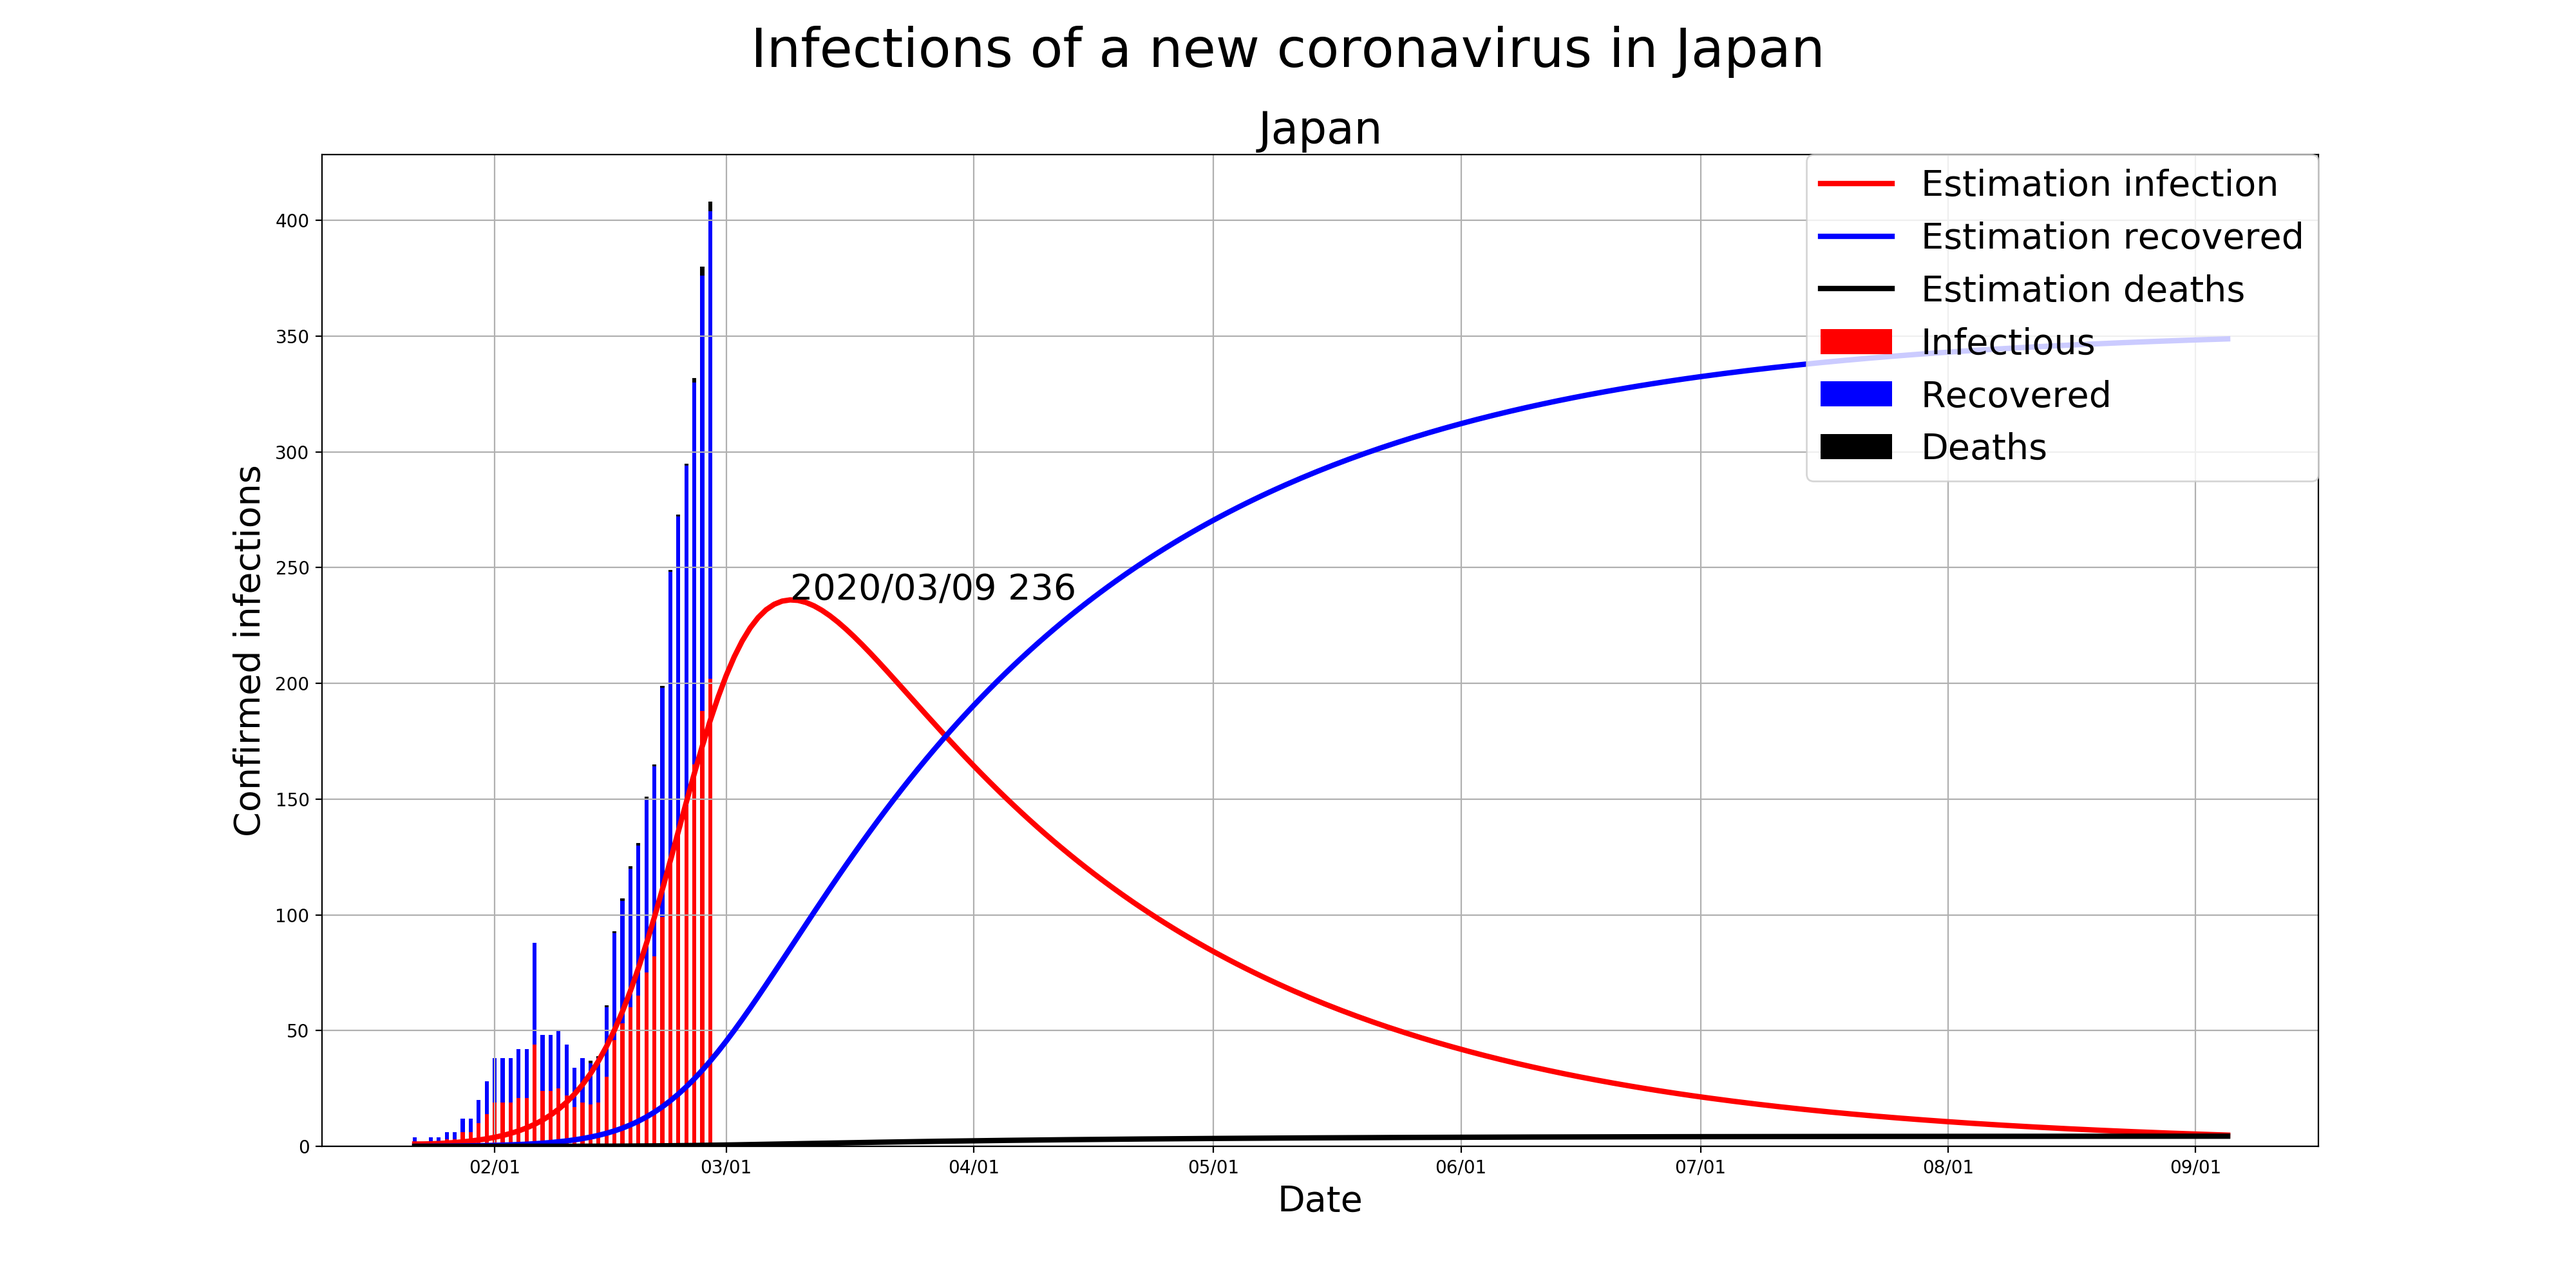
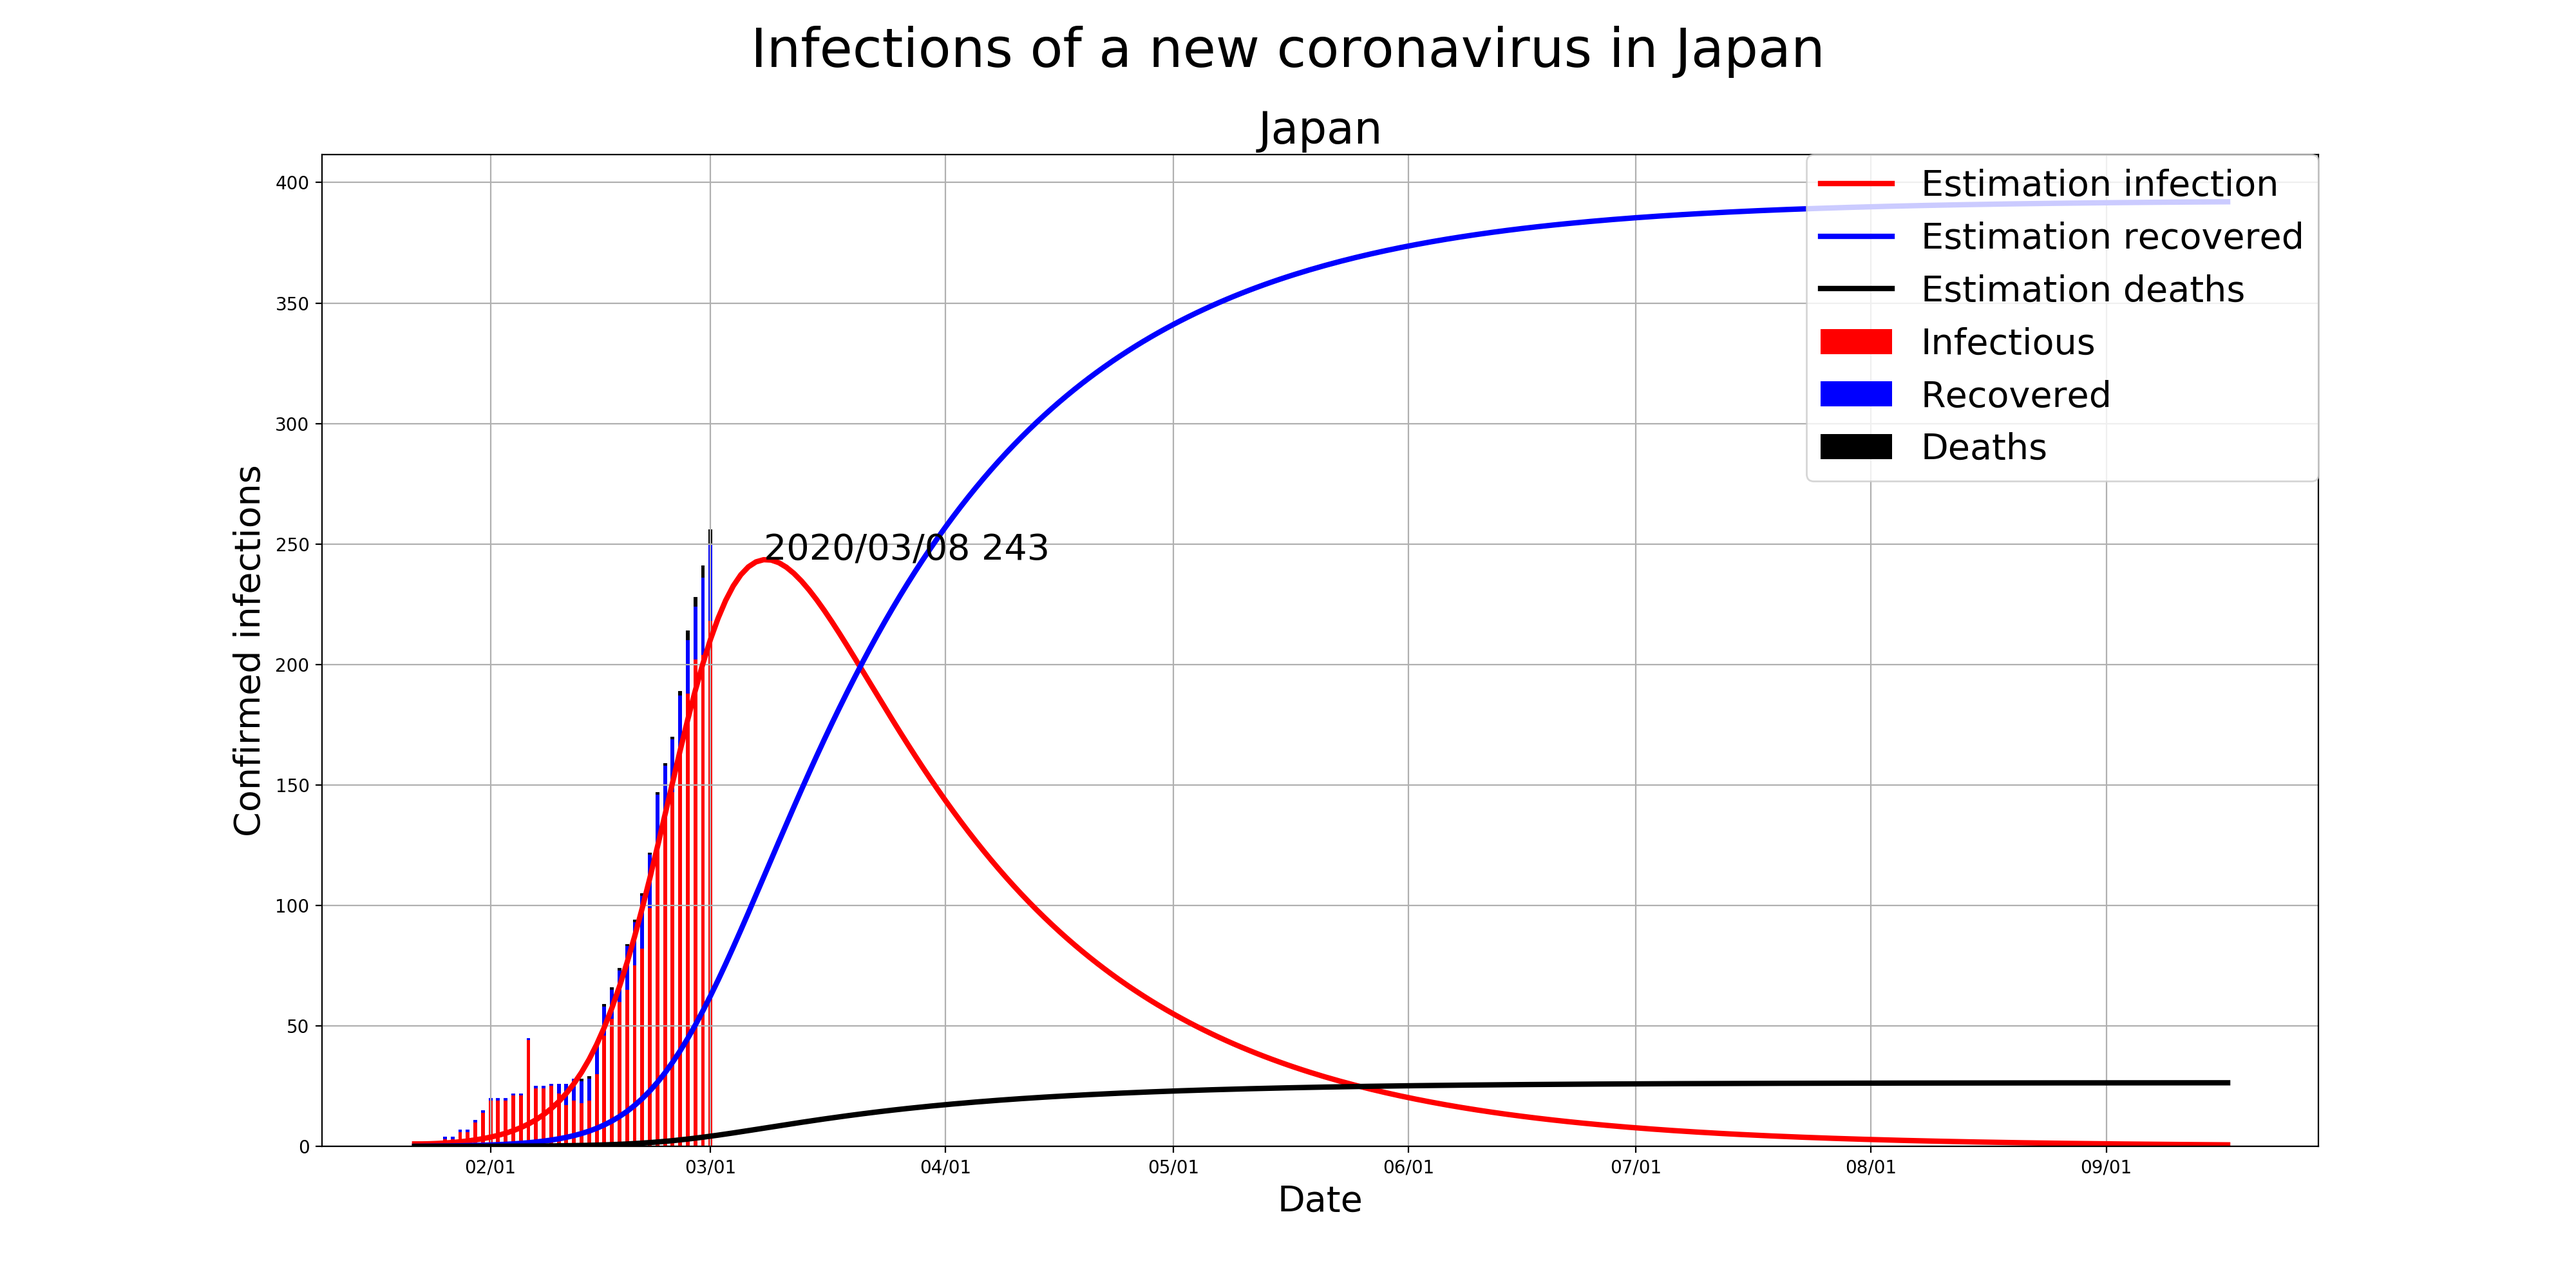
Fix the calc for recovery rate and mortality_rate

diff --git a/estimate_new_coronavirus_infection.py b/estimate_new_coronavirus_infection.py
@@ -24,7 +24,17 @@ class EstimationInfectedPeople():
         self.recovered = []
         self.confirmed = []
         self.values = []
+        #self.deaths_confirmed = []
+        #self.recovered_confirmed = []
+        #self.delta_deaths = []
+        #self.delta_recovered = []
 
+        self.delta_deaths_divided_by_infected = []
+        self.delta_recovered_divided_by_infected = []
+
+        pre_deaths = 0
+        pre_recovered = 0
+        pre_infected = 0
         for date, values in data.items():
             self.timestamp.append(dt.strptime(date, '%m/%d/%Y'))
 
@@ -36,14 +46,86 @@ class EstimationInfectedPeople():
             self.confirmed.append(confirmed)
             self.infected.append(infected)
             self.deaths.append(deaths)
-            self.recovered.append(infected)
+            self.recovered.append(recovered)
+
+            #self.deaths_confirmed.append(deaths/confirmed)
+            #self.recovered_confirmed.append(recovered/confirmed)
+
+            #self.delta_deaths.append(deaths - pre_deaths)
+            #self.delta_recovered.append(recovered - pre_recovered)
+
+
+            if pre_infected != 0:
+                self.delta_deaths_divided_by_infected.append((deaths - pre_deaths)/pre_infected)
+                self.delta_recovered_divided_by_infected.append((recovered - pre_recovered)/pre_infected)
+            else:
+                self.delta_deaths_divided_by_infected.append(0)
+                self.delta_recovered_divided_by_infected.append(0)
+
+
+
+            pre_deaths = deaths
+            pre_recovered = recovered
+            pre_infected = infected
 
         self.max = len(self.timestamp)
         self.dt = 0.01
         self.time = np.arange(0, self.max, self.dt)
         self.latent_period = latent_period
-        self.mortality_rate = sum(self.deaths)/sum(self.confirmed)/self.max
-        self.recovery_rate = sum(self.recovered)/sum(self.confirmed)/self.max
+        #self.mortality_rate = max(self.deaths)/max(self.confirmed)/self.max
+        #self.recovery_rate = max(self.recovered)/max(self.confirmed)/self.max
+
+        #self.mortality_rate = max(self.deaths)/max(self.confirmed)/len(self.time)
+        #self.recovery_rate = max(self.recovered)/max(self.confirmed)/len(self.time)
+        #self.mortality_rate = sum(self.deaths_confirmed)/len(self.deaths_confirmed)
+        #self.recovery_rate = sum(self.recovered_confirmed)/len(self.recovered_confirmed)
+        #self.mortality_rate = sum(self.delta_deaths)/len(self.delta_deaths)
+        #self.recovery_rate = sum(self.delta_recovered)/len(self.delta_recovered)
+
+   
+        self.mortality_rate = sum(self.delta_deaths_divided_by_infected)/len(self.delta_deaths_divided_by_infected)
+        self.recovery_rate = sum(self.delta_recovered_divided_by_infected)/len(self.delta_recovered_divided_by_infected)
+
+        #print('self.infected',self.infected)
+
+        #print('self.deaths',self.deaths)
+        #print('self.delta_deaths_divided_by_infected',self.delta_deaths_divided_by_infected)
+        #print('len(self.delta_deaths_divided_by_infected)',len(self.delta_deaths_divided_by_infected))
+        #print('sum(self.delta_deaths_divided_by_infected)/len(self.delta_deaths_divided_by_infected)',sum(self.delta_deaths_divided_by_infected)/len(self.delta_deaths_divided_by_infected))
+
+        #print('self.recovered',self.recovered)
+        #print('self.delta_recovered_divided_by_infected',self.delta_recovered_divided_by_infected)
+        #print('len(self.delta_recovered_divided_by_infected)',len(self.delta_recovered_divided_by_infected))
+        #print('sum(self.delta_recovered_divided_by_infected)/len(self.delta_recovered_divided_by_infected)',sum(self.delta_recovered_divided_by_infected)/len(self.delta_recovered_divided_by_infected))
+
+
+        #print('self.confirmed',self.confirmed)
+
+        #print('self.delta_deaths',self.delta_deaths)
+        #print('len(self.delta_deaths)',len(self.delta_deaths))
+        #print('sum(self.delta_deaths)/len(self.delta_deaths)',sum(self.delta_deaths)/len(self.delta_deaths))
+
+        #print('self.delta_recovered',self.delta_recovered)
+        #print('len(self.delta_recovered)',len(self.delta_recovered))
+        #print('sum(self.delta_recovered)/len(self.delta_recovered)',sum(self.delta_recovered)/len(self.delta_recovered))
+
+
+        #print('self.recovered_confirmed',self.recovered_confirmed)
+        #print('len(self.recovered_confirmed)',len(self.recovered_confirmed))
+        #print('sum(self.recovered_confirmed)/len(self.recovered_confirmed)',sum(self.recovered_confirmed)/len(self.recovered_confirmed))
+        #print('sum(self.recovered)/sum(self.confirmed)',sum(self.recovered)/sum(self.confirmed))
+
+        #print('self.deaths_confirmed',self.deaths_confirmed)
+        #print('len(self.deaths_confirmed)',len(self.deaths_confirmed))
+        #print('sum(self.deaths_confirmed)/len(self.deaths_confirmed)',sum(self.deaths_confirmed)/len(self.deaths_confirmed))
+        #print('sum(self.deaths)/sum(self.confirmed)',sum(self.deaths)/sum(self.confirmed))
+
+        #print('self.max',self.max)
+        #print('max(self.deaths)',max(self.deaths))
+        #print('max(self.recovered)',max(self.recovered))
+        #print('max(self.confirmed)',max(self.confirmed))
+        print('self.mortality_rate',self.mortality_rate)
+        print('self.recovery_rate',self.recovery_rate)
 
     def SEIR(self, vec, time, Beta):
         # vec[0]: S:Susceptible(未感染)
@@ -214,10 +296,6 @@ def convert_count_by_country(csv_data):
     return data
 
 def read_csv(filename):
-    confirmed = {}
-    daily = {}
-    timestamp = []
-    pre_value = {}
     data = {}
     with open(filename) as f:
         reader = csv.reader(f)
